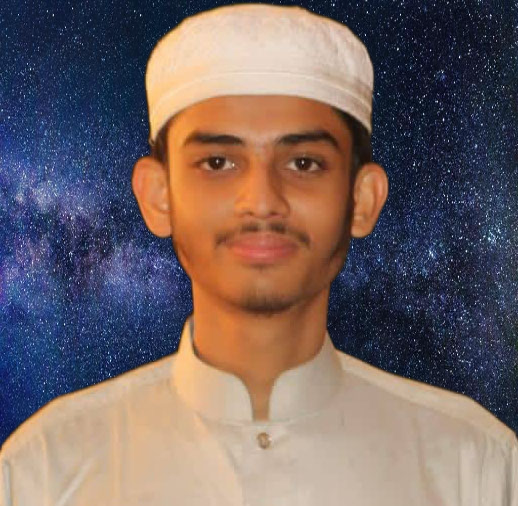
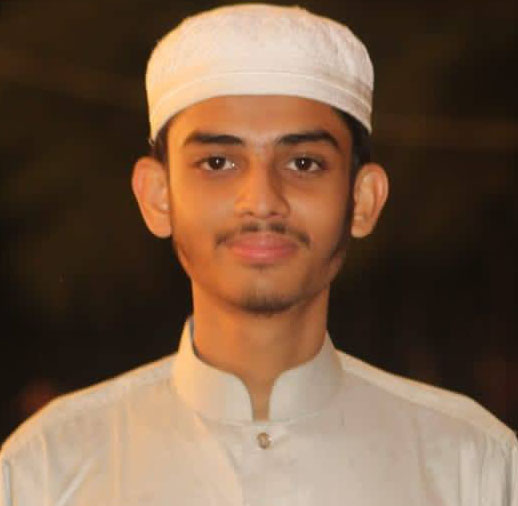
first commit

diff --git a/index.html b/index.html
@@ -5,7 +5,7 @@
     <meta name="viewport" content="width=device-width, initial-scale=1.0">
     <meta http-equiv="X-UA-Compatible" content="Ie=edge">
     <title>Shakib Web Developer</title>
-    <link rel="stylesheet" href="css/style.css">
+    <link rel="stylesheet" href="style.css">
     <link rel="preconnect" href="https://fonts.googleapis.com">
 </head>
 <body>
@@ -15,10 +15,9 @@
             <h1><span class="name-highlight">Shakib</span> Website</h1>
             <h3>World's Class Web Developer</h3>
             <p>Welcome to HTML! HyperText Markup Language, or HTML, is the backbone of the web, providing the content, as well as the structure of that content, that you see displayed in your web browser.  Unless you're reading a PDF or a printed version of this page, this content is made up of various HTML elements and text. HTML is the content layer of the web. HTML elements are the nodes that make up the Document Object Model.</p>
-            <a class="link-button" target="_blank" href="https://www.linkedin.com/in/syed-nazmus-shakib-686985264/">HIRE ME</a>
         </div>    
        <div class="half-width">
-           <img src="images/New Project.jpg" alt="">
+           <img src="images/image 12.jpg" alt="">
        </div>
         </section>
 </body>

diff --git a/style.css b/style.css
@@ -1,0 +1,26 @@
+body{
+ margin: 0;
+ font-family: 'Anton', sans-serif;
+}
+h1{
+ font-size: 50px;
+}
+.name-highlight{
+ color: orange;
+}
+.half-width{
+ width: 40%;
+ float: left;
+ margin-left: 5%;
+ padding-left: 2%;
+}
+.half-width img{
+ width: 100%;
+}
+.top-banner{
+ background-image: url("images/top-banner.png");
+ background-repeat: no-repeat;
+}
+section{
+ height: 500px;
+}
